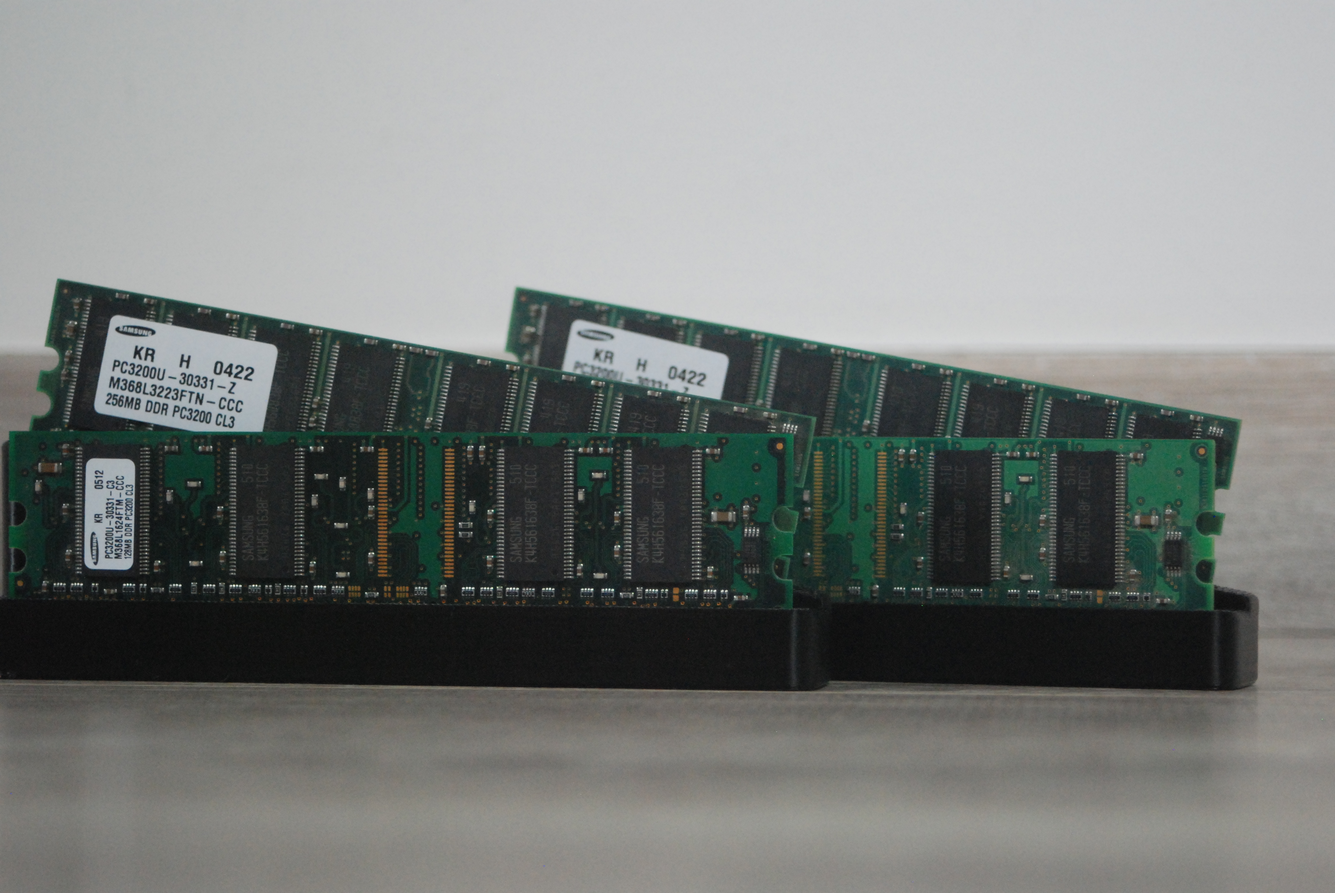
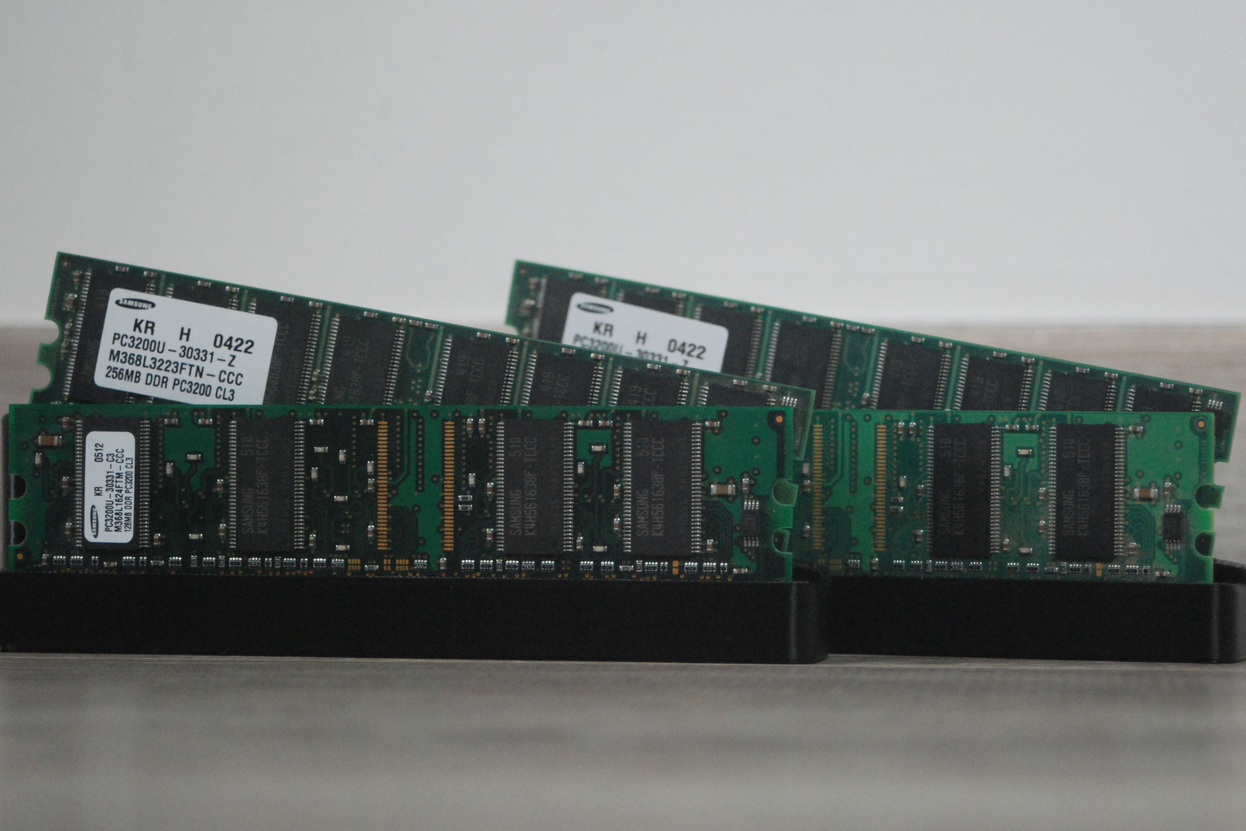
Ajoute un soulignement au lien PayPal dans about.html pour une meilleure visibilité

Changed region(s): [[0.0, 0.28, 1.0, 0.9332], [0.5, 0.871, 0.625, 0.9332]]

diff --git a/about.html b/about.html
@@ -35,7 +35,7 @@
                 <img src="/Gamerabbit.Blog.io/Images/profile.png" style="margin: 40px; margin-left: 40px; margin-right: 40px; width: 350px; height: auto;">
                 <br>
                 <a><h3>This is my discord: @weathleythewolp16 <br>
-                    This is my paypal (to buy more tech and try it): <a href="https://paypal.me/Gamerabbit16" target="_blank" style="color: white;">paypal.me/Gamerabbit16</a>
+                    This is my paypal (to buy more tech and try it): <u><a href="https://paypal.me/Gamerabbit16" target="_blank" style="color: white;">paypal.me/Gamerabbit16</a></u>
                 </h3></a>
         </div>
     </main>
